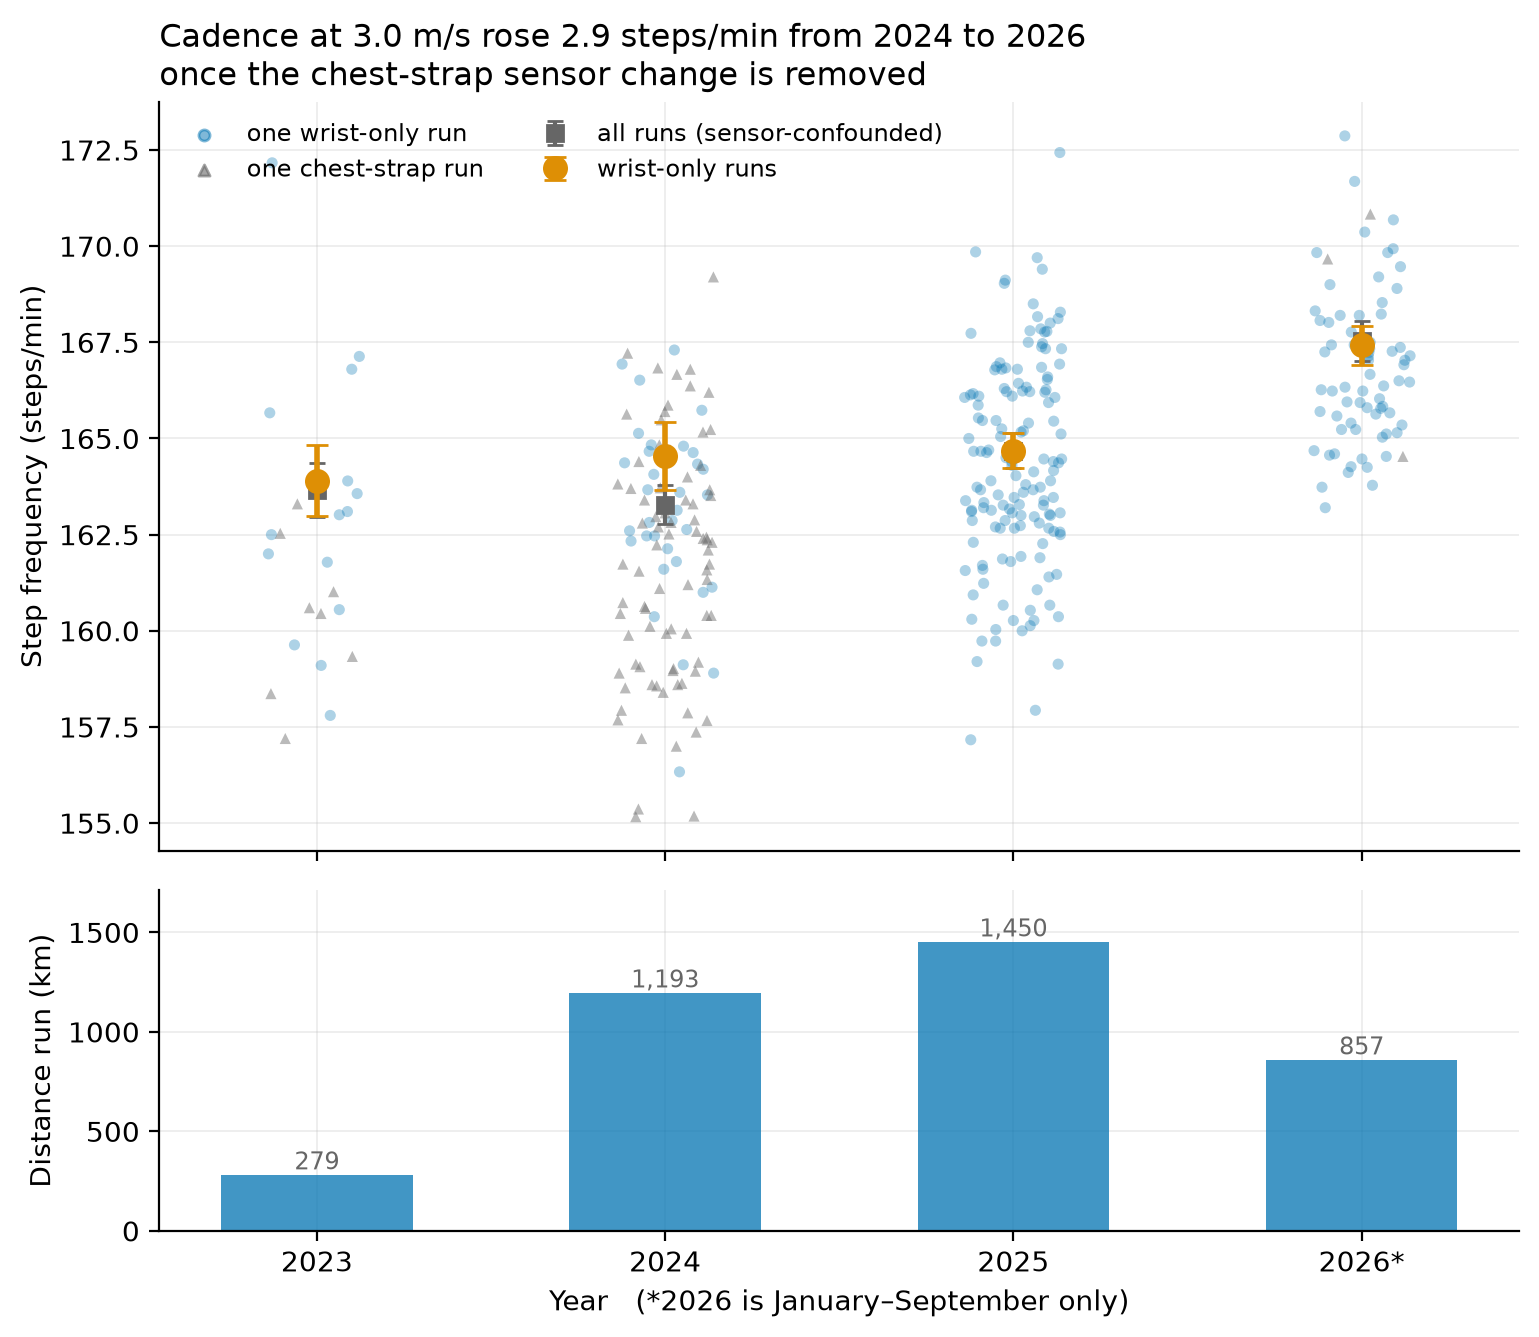
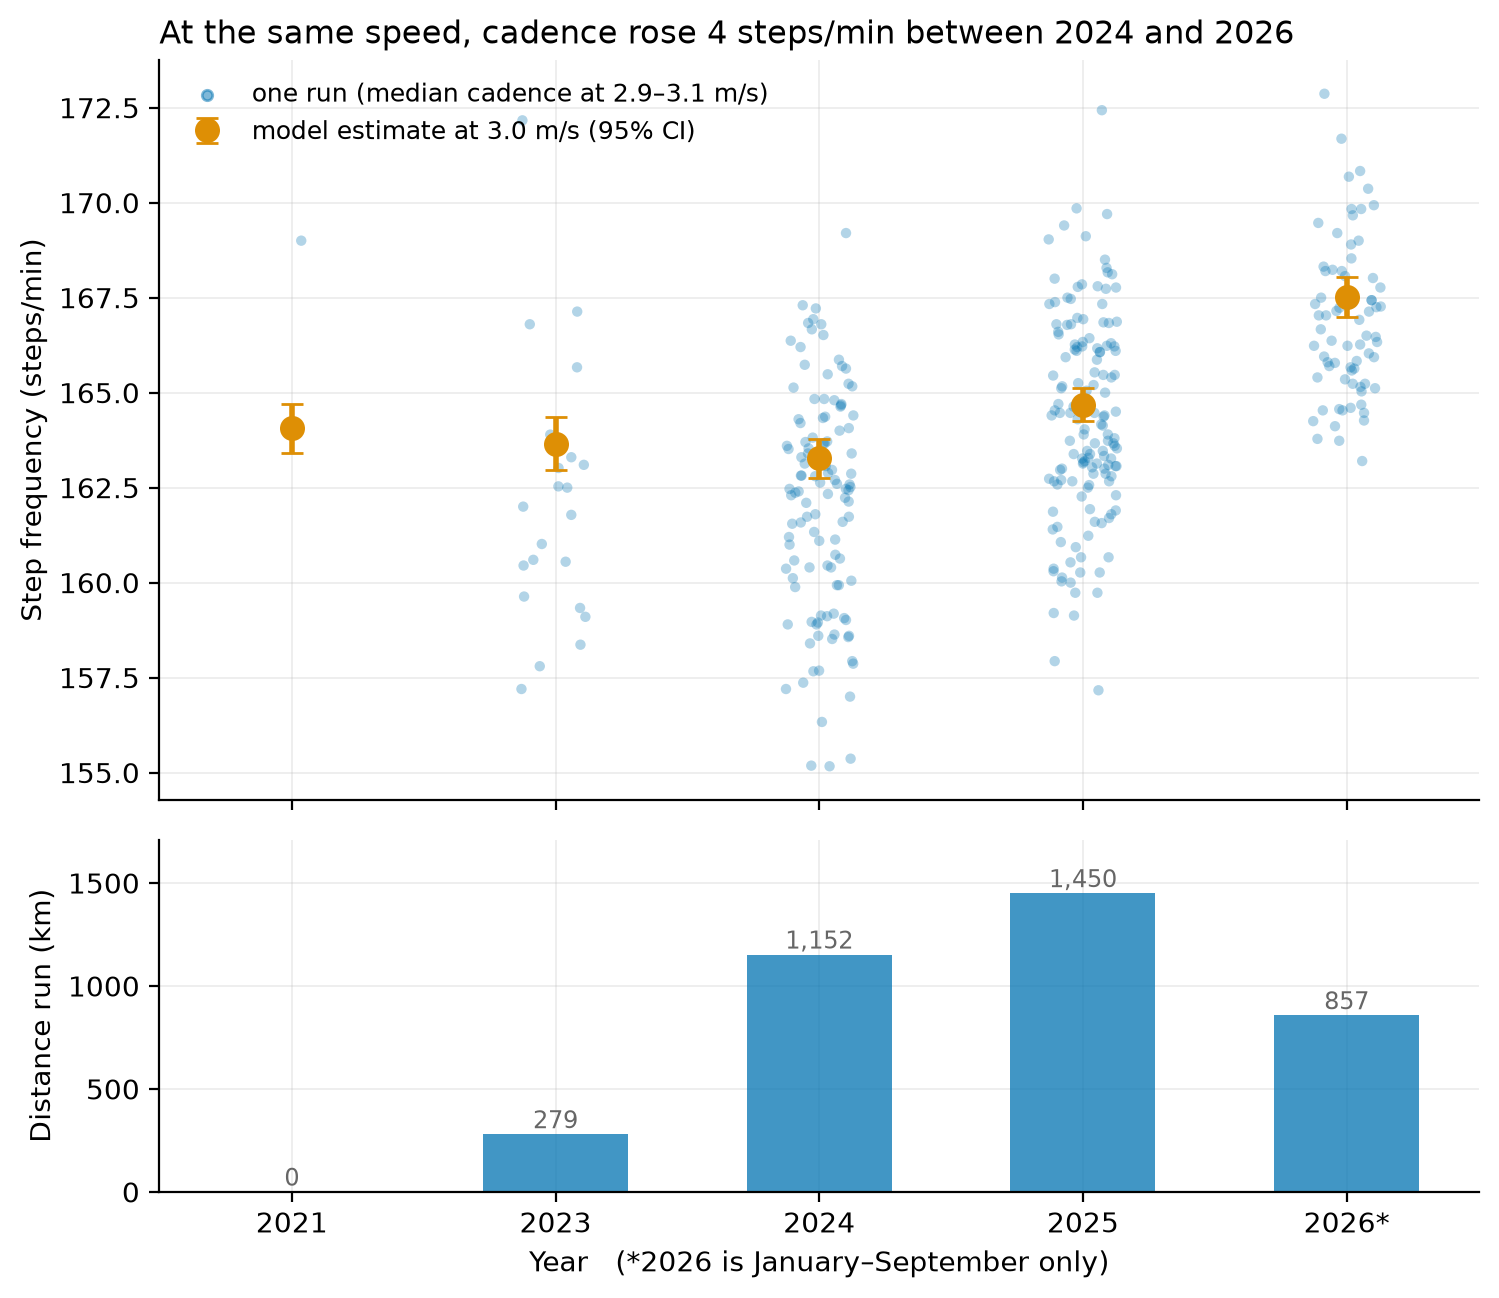
Correct 2024 volume for triathlon bike leg; log run-leg isolation method

diff --git a/docs/decisions.md b/docs/decisions.md
@@ -67,6 +67,8 @@ Screened the whole dataset for others: fraction of samples with speed > 5.5 m/s 
 | 2026-09-22 | Training-volume totals must exclude the swim and bike distance of activity 12671640206 | Its 52.1 km is roughly 1.2 km swim, 41 km bike, 10 km run. Figure 6's lower panel counts all 52 km as running, overstating 2024 by ~42 km (1,193 -> ~1,151 km) |
 | 2026-09-22 | RACE FINDING REPLICATED: running off the bike shows ~+3% cadence at matched speed, in two independent events two years apart | Olympic tri run leg (Jul 2024, chest strap) = 166.54 spm against strap-matched 2024 training at 161.55 spm over the same 2.75-3.37 m/s band: +3.09% (89 comparison runs). 70.3 Belgrade (Sep 2026, chest strap) = 173.20 spm against 2026 training at 167.62 spm over 3.11-3.38 m/s: +3.33%; 2026 has only two other strap runs so it cannot be strap-matched, and since the strap reads 0.77% low the wrist-equivalent gap is nearer +4%. The 2026-09-22 entry recording this as a single-observation hypothesis is superseded: it now has a replication |
 | 2026-09-22 | The off-the-bike interpretation remains a hypothesis, not a demonstrated cause | Both observations are races, so arousal, race shoes and pacing strategy are confounded with running off the bike. There are no brick training sessions in the dataset to break the tie. n = 2 events |
+| 2026-09-23 | The run leg of multisport activity 12671640206 is isolated by speed, not by cadence | A `cadence >= 67` filter matches from early in the activity and returns 50.74 km of the 52.1 km total, because the bike leg records cadence too. The earlier screen that found this activity looked for samples above 5.5 m/s with *no* cadence, so it caught the fast bike segments only; slower bike segments do carry a cadence value. The run leg is instead taken as the distance recorded after the last sample above 5.5 m/s (T2) |
+| 2026-09-23 | Window-derived distance is not used to replace the contaminated activity's total | Summing window speed x 30 s gives 6.38 km for the run leg, but windows are dropped for missing cadence, the first 60 s, walking and missing gradient. Every other activity in the volume series contributes its full recorded distance, so substituting a filtered subset would undercount this activity relative to the rest |
 
 ## Open question: irregular sampling in early years (raised 2026-09-18, to resolve in Chunk 3)
 
